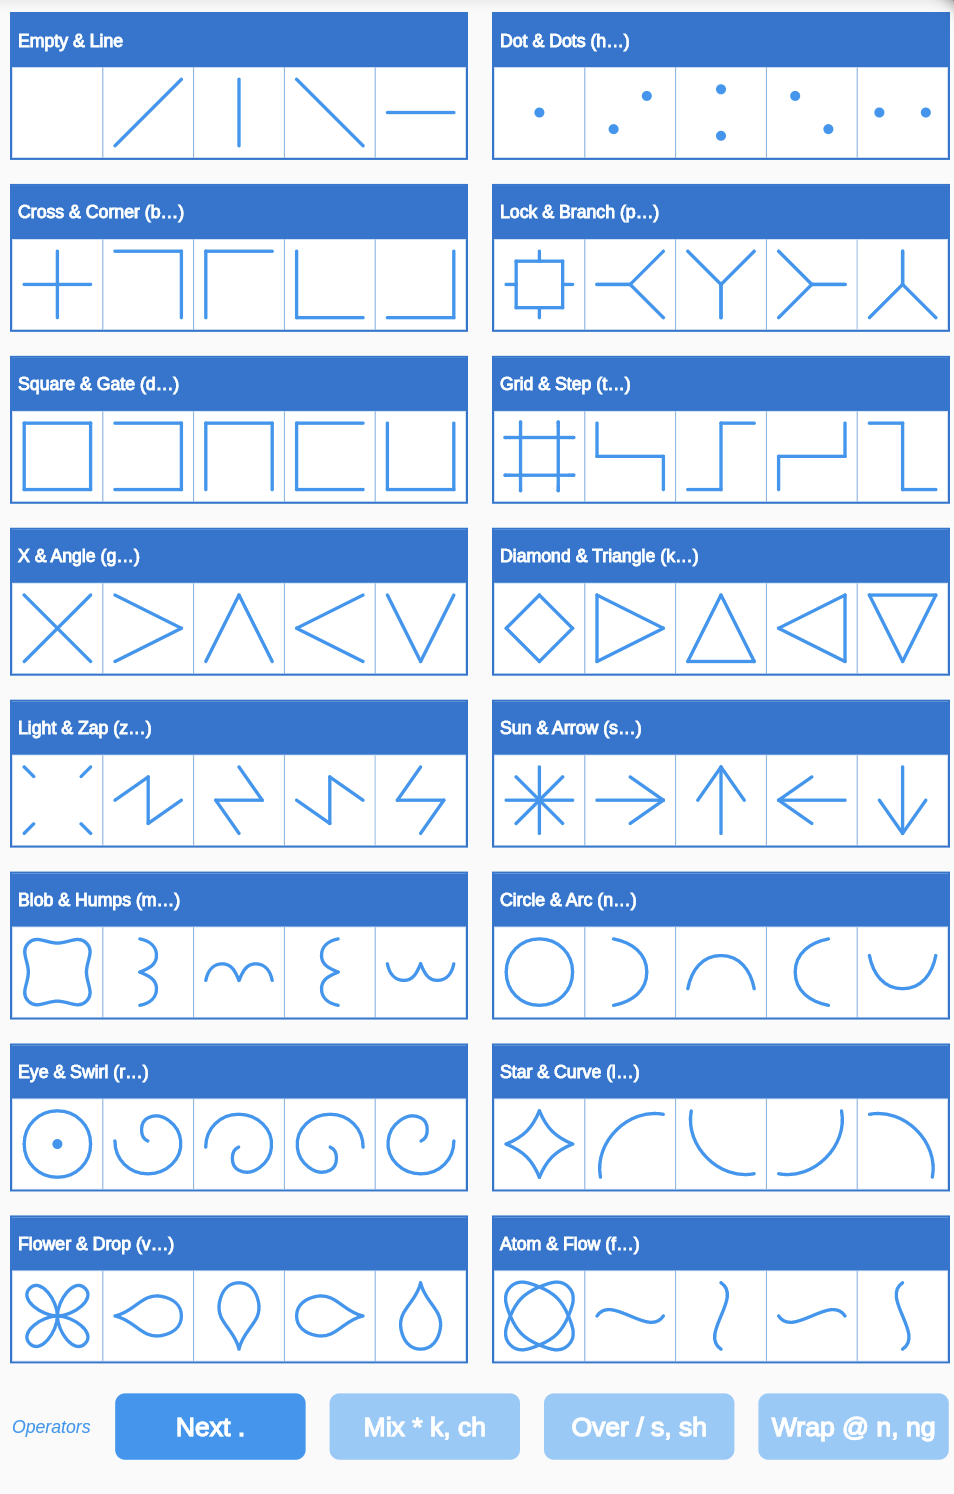
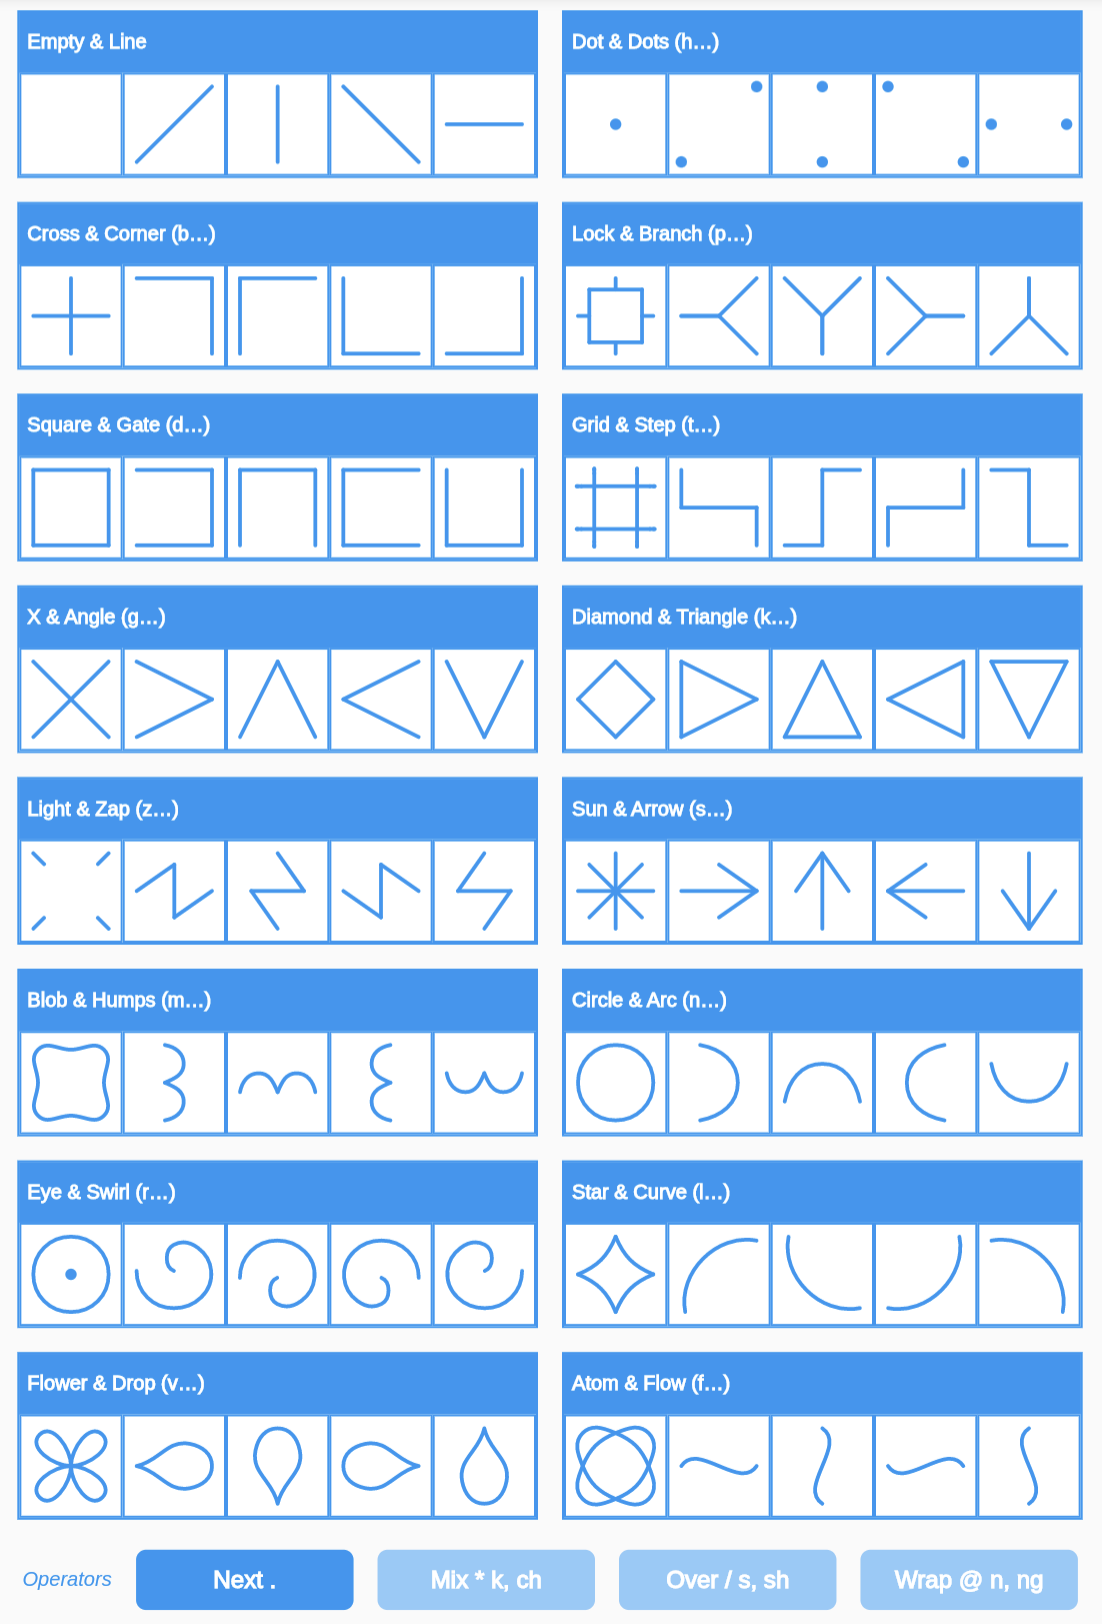
tweak sizing better.

diff --git a/lib/gram_table_widget.dart b/lib/gram_table_widget.dart
@@ -48,6 +48,7 @@ class GramTableView extends StatefulWidget {
 
 class _GramTableViewState extends State<GramTableView> {
   static const MIN_GRAM_CLUSTER_WIDTH = 150;
+  static const MIN_GRAM_CLUSTER_HEIGHT = 350;
   static const HEADER_CELL_RATIO = 0.8;
   static final log = Logger("_GramTableViewState");
 
@@ -61,9 +62,10 @@ class _GramTableViewState extends State<GramTableView> {
     final scheme = Theme.of(ctx).colorScheme;
     final mediaSize = (widget.size ?? MediaQuery.of(ctx).size);
     final inset = 6.0;
-    final pageWidth = mediaSize.width - 4 * inset;
+    final pageWidth = mediaSize.width - 9 * inset;
     final pageHeight = mediaSize.height - TOOL_BAR_HEIGHT - FOOTER_HEIGHT;
-    final numCols = pageWidth < MIN_GRAM_CLUSTER_WIDTH
+    final numCols = pageWidth < MIN_GRAM_CLUSTER_WIDTH ||
+            pageHeight < MIN_GRAM_CLUSTER_HEIGHT
         ? 1
         : (pageWidth > pageHeight && pageWidth > 4 * MIN_GRAM_CLUSTER_WIDTH
             ? 4
@@ -72,21 +74,21 @@ class _GramTableViewState extends State<GramTableView> {
     final rowHeight = pageHeight / (2 + table.numRows / numCols);
     final cellWidth = (rowWidth - 12 * inset) / 5;
     final cellHeight = rowHeight / (1 + HEADER_CELL_RATIO) - 1.5 * inset;
-    final cellDim = min(cellWidth, cellHeight);
+    final cellDim = numCols == 1 ? cellWidth : min(cellWidth, cellHeight);
     final headerHeight = cellDim * HEADER_CELL_RATIO;
-    final opButtonHeight = headerHeight * 1.25;
+    final opButtonHeight = min(FOOTER_HEIGHT, headerHeight);
 
     final opHeaderStyle = TextStyle(
       fontWeight: FontWeight.normal,
       color: scheme.primary,
       fontStyle: FontStyle.italic,
-      fontSize: (headerHeight / 3),
+      fontSize: (opButtonHeight / 3),
       backgroundColor: Colors.transparent,
     );
     final opTxtStyle = TextStyle(
       fontWeight: FontWeight.bold,
       color: Colors.white,
-      fontSize: (headerHeight / 2),
+      fontSize: (opButtonHeight / 2.5),
       backgroundColor: Colors.transparent,
     );
 
@@ -155,7 +157,7 @@ class _GramTableViewState extends State<GramTableView> {
             child: Container(
               padding: EdgeInsets.all(inset / 2),
               height: opButtonHeight,
-              width: pageWidth / (1 + Binary.values.length),
+              width: pageWidth / (1.5 + Binary.values.length),
               alignment: Alignment.center,
               decoration: BoxDecoration(
                 color: _binary == b
@@ -183,6 +185,7 @@ class _GramTableViewState extends State<GramTableView> {
           gramTable,
           Container(height: inset),
           binaryRow,
+          Container(height: FOOTER_HEIGHT + inset),
         ],
       ),
     );
@@ -219,7 +222,7 @@ class GramRowWidget extends StatelessWidget {
       child: Container(
         decoration: BoxDecoration(
           color: Colors.transparent,
-          border: Border.all(color: scheme.primaryVariant, width: 1),
+          border: Border.all(color: scheme.primary, width: 1),
         ),
         child: Column(
           mainAxisSize: MainAxisSize.min,
@@ -230,7 +233,10 @@ class GramRowWidget extends StatelessWidget {
               onTap: () => onTap(table.monoRow(mono)),
               child: Container(
                 height: headerHeight,
-                color: scheme.primaryVariant,
+                decoration: BoxDecoration(
+                  color: scheme.primary,
+                  border: Border.all(color: scheme.primary, width: 1),
+                ),
                 alignment: Alignment.centerLeft,
                 padding: EdgeInsets.all(pad / 2),
                 child: Text(
@@ -251,8 +257,7 @@ class GramRowWidget extends StatelessWidget {
                     padding: EdgeInsets.all(pad),
                     decoration: BoxDecoration(
                       color: scheme.surface,
-                      border:
-                          Border.all(color: scheme.primaryVariant, width: .1),
+                      border: Border.all(color: scheme.primary, width: 1),
                     ),
                     child: GestureDetector(
                       onTap: () => onTap([table.atMonoFace(mono, f)]),

diff --git a/lib/main.dart b/lib/main.dart
@@ -235,16 +235,19 @@ class GrafonAppState extends State<GrafonApp> {
             style: theme.headline6?.copyWith(
               color: scheme.surface,
               fontWeight: FontWeight.bold,
+              fontSize: TOOL_BAR_HEIGHT / 2,
             ),
           ),
           leading: IconButton(
             icon: Icon(Icons.help_outline_rounded),
+            iconSize: TOOL_BAR_HEIGHT / 2,
             onPressed: () => _openBrowser(GITHUB_LINK),
           ),
           actions: <Widget>[
             if (_googleAcct == null)
               IconButton(
                 icon: Icon(Icons.login),
+                iconSize: TOOL_BAR_HEIGHT / 2,
                 tooltip: 'Login',
                 onPressed: () => _signIn(),
               )

diff --git a/lib/constants.dart b/lib/constants.dart
@@ -17,8 +17,8 @@
 
 /// Constants to be share in multiple pieces of code
 
-const TOOL_BAR_HEIGHT = 40.0;
-const FOOTER_HEIGHT = 40.0;
+const TOOL_BAR_HEIGHT = 35.0;
+const FOOTER_HEIGHT = 35.0;
 
 const MIN_GRAM_WIDTH = 0.01;
 const MIN_GRAM_HEIGHT = 0.01;
@@ -29,6 +29,6 @@ const COMPOUND_WORD_GAP = GRAM_DIM / 2;
 const FLOAT_DECIMALS = 2;
 const PEN_WTH_SCALE = 0.05;
 const DOT_LINE_WTH_RATIO = 1.5;
-const GRAM_GAP = 0.25;
+const GRAM_GAP = 0.2;
 const MIN_PEN_WIDTH = 1.0;
 const MIN_WIDTH_RATIO = 3 / 4;

diff --git a/lib/gram_table.dart b/lib/gram_table.dart
@@ -312,7 +312,7 @@ class _QuadHelper {
   ];
 
   final dotsPaths = [
-    InvisiDot.anchors([], minWidth: GRAM_DIM, minHeight: GRAM_DIM),
+    InvisiDot.anchors([], minWidth: GRAM_DIM / 2, minHeight: GRAM_DIM / 2),
     PolyDot.anchors([Anchor.ne, Anchor.sw]),
   ];
 
